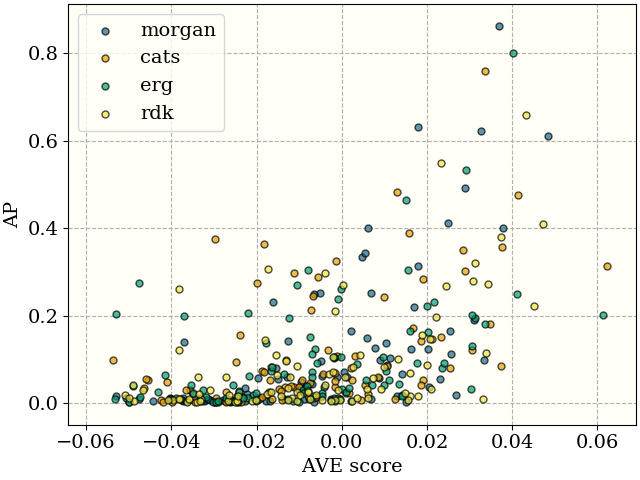
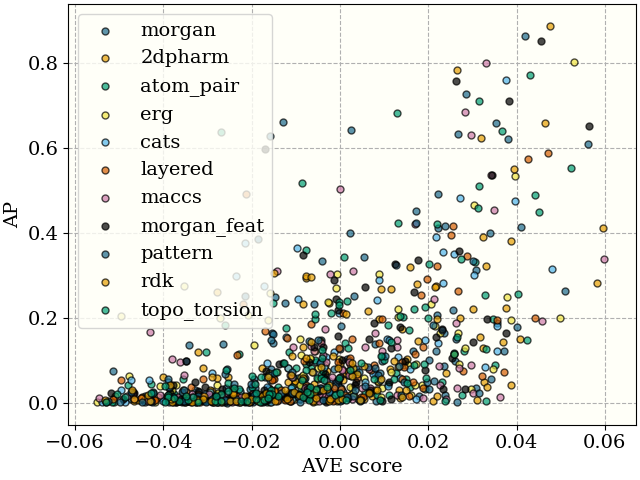
longer run

diff --git a/code/graph_fp_comparison_figures.py b/code/graph_fp_comparison_figures.py
@@ -14,7 +14,7 @@ from tqdm import tqdm
 
 ##Set plotting parameters:
 utils.set_mpl_params()
-fp_names = utils.getNames(short=True)
+fp_names = utils.getNames(short=False)
 
 
 fp_aps = dict()
@@ -73,7 +73,7 @@ for fp in fp_names:
             path_effects=pe1,
             alpha=0.5, linewidth=3, linestyle=linestyle)
     ax.scatter(x_points+np.random.uniform(-0.01, 0.01, len(x_points)), y_points, s=25, linewidth=0.4, alpha=utils.ALPHA)
-    print(fp, result.params[0])
+    print(fp, result.params[0], result.params[1])
 
 ax.set_xlabel('AVEs')
 ax.set_ylabel('Score')
